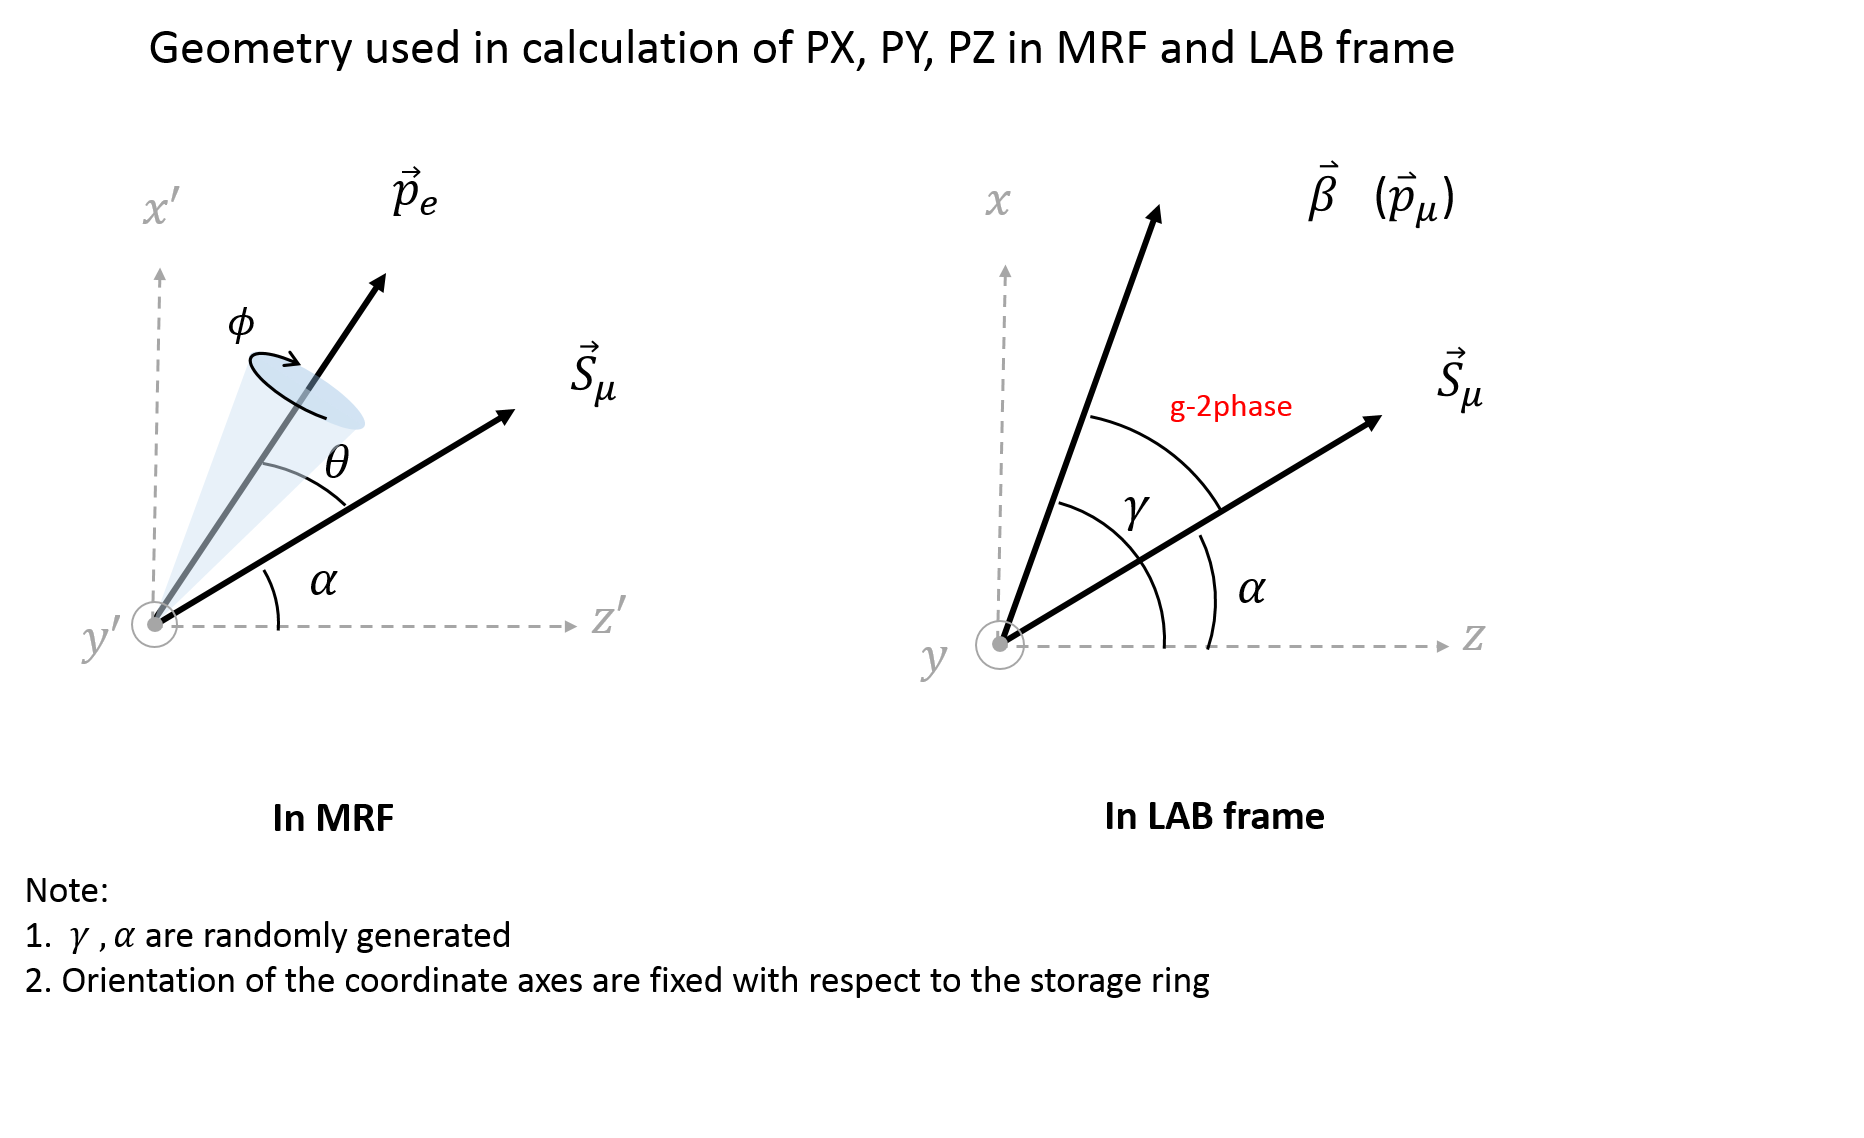
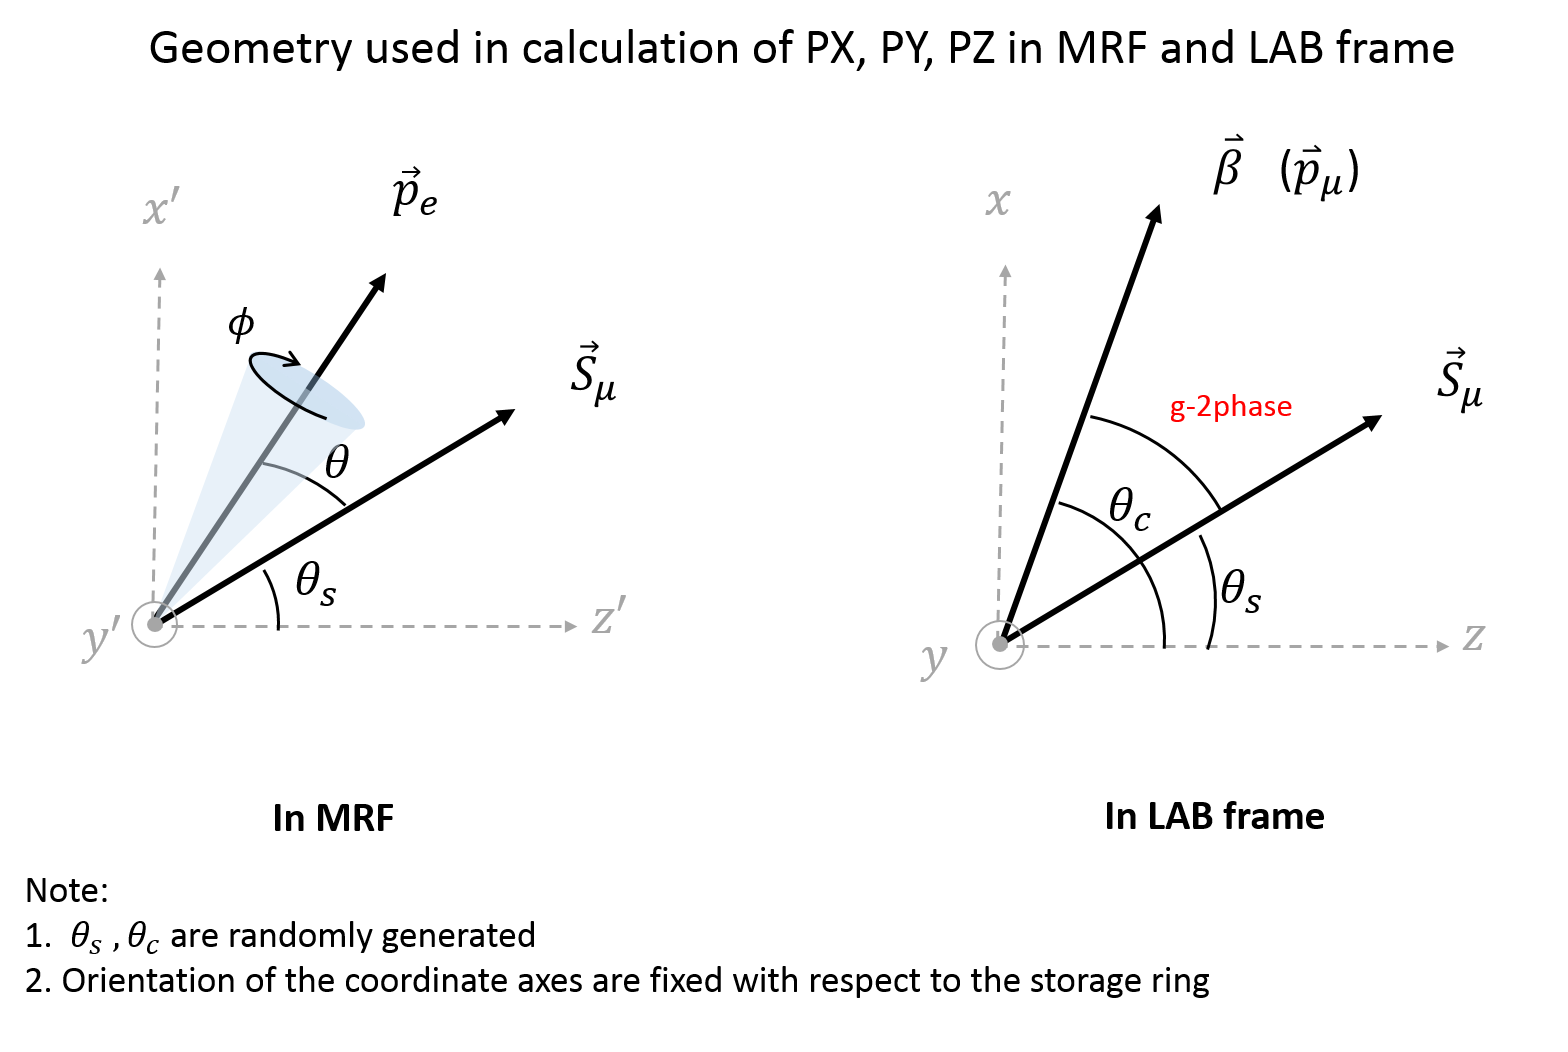
minor info correction

diff --git a/02_positron_sampling/PositronDecay.py b/02_positron_sampling/PositronDecay.py
@@ -150,14 +150,16 @@ def GeneratePositron_MRF(x,ctheta,theta_s):
     ---------------
     x 
         the ratio of positron energy to its maximum decay energy (52.8 MeV)
+
     ctheta 
         the cosine of polar angle (theta, relative to z-axis) of ejected positron
+    
     theta_s
         spin precession angle of the muon, relative to its momentum
     
     Returns
-    energy, px, py, pz, stheta_s, muDecayPolY, ctheta_s
     ---------------
+    energy, px, py, pz, stheta_s, muDecayPolY, ctheta_s
     """
     # https://gitlab.cern.ch/geant4/geant4/-/blob/master/source/externals/clhep/include/CLHEP/Vector/LorentzVector.h
     # get michel x and cos(theta) from the argument
@@ -211,19 +213,21 @@ def Calculate_Phase(y1, x1, y2, x2):
 
 def GeneratePositron_LAB(E_primed, px_primed, py_primed, pz_primed, theta_c):
     """
-    generate positrons energy, PX, PY, PZ in muon rest frame
+    generate positrons PosiInitE, PosiInitPX, PosiInitPY, PosiInitPZ in Lab frame according to g-2 experiment setting
     Parameters
     ---------------
-    x 
-        the ratio of positron energy to its maximum decay energy (52.8 MeV)
-    ctheta 
-        the cosine of polar angle (theta, relative to z-axis) of ejected positron
+    E_primed
+        positron energy in muon rest frame
+    
+    px_primed, py_primed, pz_primed
+        component of positron momentum in muon rest frame
+
     theta_c
-        cyclotron angle, ie: the angle between muon momentum relative to z-axis
+        cyclotron angle in the x-z plane, to fix the velocity components of the moving muon frame 
     
     Returns
-    PosiInitE, PosiInitPX, PosiInitPY, PosiInitPZ, muDecayPX, muDecayPY, muDecayPZ
     ---------------
+    PosiInitE, PosiInitPX, PosiInitPY, PosiInitPZ, muDecayPX, muDecayPY, muDecayPZ
     """
     # fixed parameters, lorentz boost parameter (in gm2 experiment)
     p_mu_magic = 3.1 # GeV/c (PRL)
